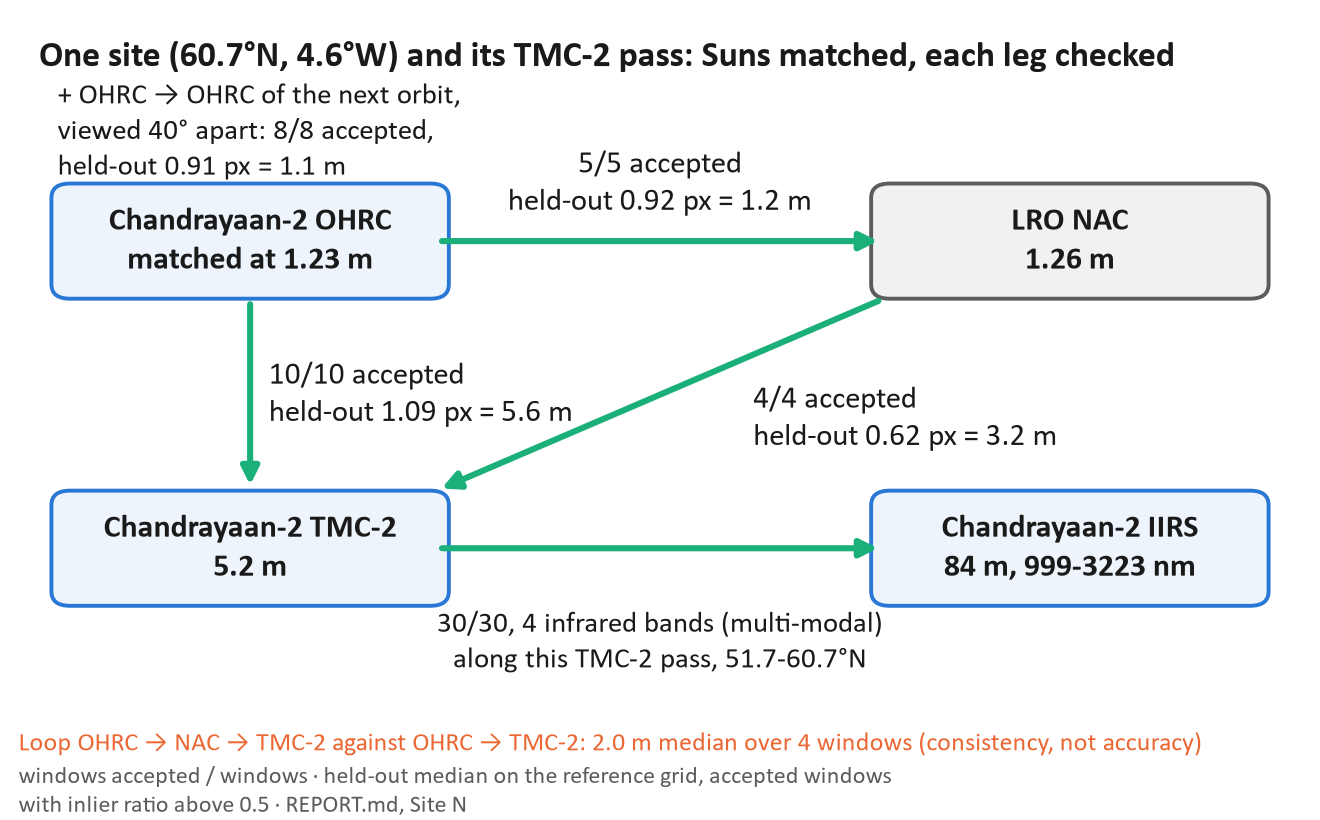
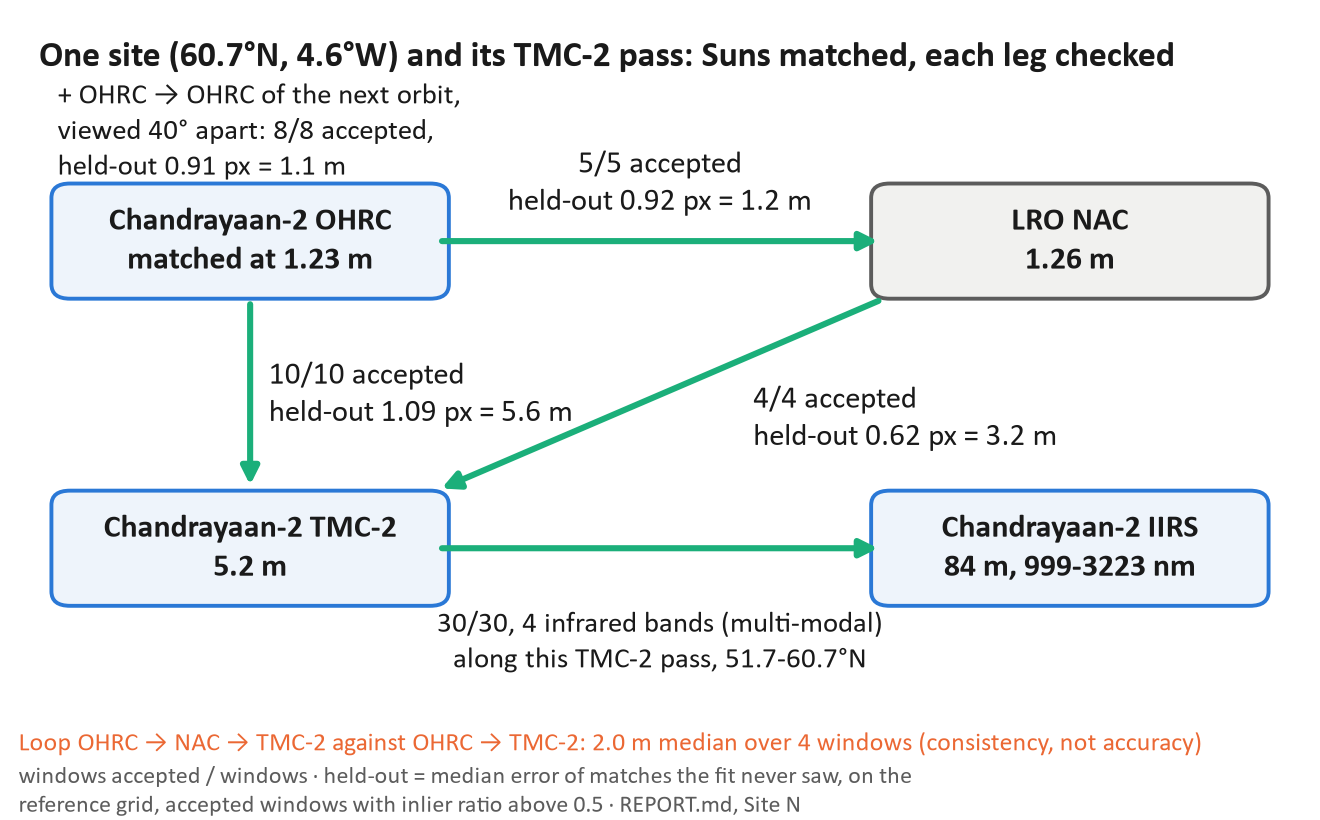
Deck after a fresh-eyes judge read: sub-pixel row amber (holds on some pairings, not OHRC -> TMC-2) and named as held-out on the reference grid; scorecard in the problem statement's order; slide 2 shows the catch rate (100% of planted 5 m shifts, 176 trials) beside the false-alarm rate, azimuth with

Changed region(s): [[0.0, 0.9146, 0.6833, 1.0]]

diff --git a/presentation/build_deck.py b/presentation/build_deck.py
@@ -429,15 +429,15 @@ def slide1(s):
 HOW_ROWS = [
     # REPORT.md "SAC's own benchmark pair (equatorial ...)": `agrees` / rows; Δsun az 173.5-173.7,
     # said as 174°. A did-it-register fact, NOT an accuracy comparison.
-    ("AZIMUTH", GREEN, "6/6 accepted", " on SAC's own pair [1], Sun azimuths 174° apart"),
+    ("AZIMUTH", GREEN, "6/6 accepted", " on SAC's pair [1], Suns 174° apart; 0/12 at 60–120°"),
     # "Sun azimuth and elevation, on SAC's own frame": the near-azimuth table's totals line (agrees /
     # windows) and its highest Sun (+41.7° in elevation).
     ("ELEVATION", GREEN, "61/71 accepted", " Sun raised up to 41.7° on SAC's frame"),
     # "Scale rung: ... TC ortho map": scale column, `agrees` / rows.
-    ("SCALE", GREEN, "3/4 accepted", " across a 29.6× gap, 1 on dense evidence"),
+    ("SCALE", GREEN, "10/10 accepted", " OHRC → TMC-2 across 4.2×; 3/4 across 29.6×"),
     # "TMC-2 -> IIRS, orbit of ..." (both orbits): windows accepted in the bands beyond 850 nm
     # (multi-modal), 8 x 4 on the first orbit + 8 + 8 + 8 + 6 on the second.
-    ("SENSOR", GREEN, "62/62 accepted", " TMC-2 → IIRS infrared, two orbits"),
+    ("MULTI-MODAL", GREEN, "62/62 accepted", " TMC-2 → IIRS infrared, two orbits"),
 ]
 
 
@@ -483,9 +483,9 @@ def slide2(s):
     rows = HOW_ROWS
     for k, (label, colour, bold, rest) in enumerate(rows):
         ry = cy + 0.44 + k * 0.48
-        _box(s, L + 0.10, ry + 0.08, 1.02, 0.30, [P(R(label, 11, True, WHITE), align="c")],
+        _box(s, L + 0.10, ry + 0.08, 1.14, 0.30, [P(R(label, 11, True, WHITE), align="c")],
              fill=colour, radius=0.5, margins=(0.02, 0, 0.02, 0), name="pill")
-        _text(s, L + 1.20, ry, cw1 - 1.26, 0.46,
+        _text(s, L + 1.30, ry, cw1 - 1.36, 0.46,
               [P(R(bold, 12, True, INK), R(rest, 12, False, INK))], anchor="m", name="how-row")
 
     # Innovation and uniqueness: the calibration, both Sun populations, never pooled.
@@ -498,8 +498,8 @@ def slide2(s):
          name="card-innovation")
     _text(s, ix + 0.14, cy + 0.46, RIGHT - ix - 0.28, 0.30,
           [P(R("A failure detector, calibrated on real data.", 13, True, INK))], name="inn-lead")
-    for k, (num, lab) in enumerate((("0/44", "false alarms, Sun azimuths within 10° apart"),
-                                    ("0/16", "false alarms, Sun azimuths 132–174° apart"))):
+    for k, (num, lab) in enumerate((("0/44", "false alarms on correct answers, Suns within 10° apart"),
+                                    ("100%", "of planted 5 m shifts caught (176 trials), same Suns"))):
         ry = cy + 0.80 + k * 0.42
         _text(s, ix + 0.14, ry, 0.86, 0.40, [P(R(num, 24, True, ACCENT))], anchor="m", name="inn-num")
         _text(s, ix + 1.02, ry, RIGHT - ix - 1.16, 0.40, [P(R(lab, 12, False, MUTED))], anchor="m",
@@ -507,8 +507,8 @@ def slide2(s):
     # Shifts only: rotations and scale changes of 5 m at the corners are flagged far less often
     # at frame level (4 and 8 of 44 near-Sun trials) - slide 5 says why (claim-check v10, H1).
     _text(s, ix + 0.14, cy + 1.68, RIGHT - ix - 0.28, 0.62,
-          [P(R("Shifts planted in 30 real windows: every one of 5 m or more caught with the Suns "
-               "within 10°; 2 m or less is the floor we print.", 12, False, INK))],
+          [P(R("30 real windows. Suns 132–174° apart: 0/16 false alarms, every 10 m "
+               "shift caught. At 2 m or less almost nothing is caught: the detection floor.", 12, False, INK))],
           name="inn-body")
 
     # The trust map itself: SAC's OHRC -> NAC w06 (accepted) above Kaguya TC -> MI 1548 nm w01
@@ -552,7 +552,7 @@ def slide3(s):
     _box(s, L, band_y, RIGHT - L, band_h,
          [P(R("INDEPENDENT AREA CHECK — ours", 15, True, WHITE), align="c"),
           P(R("cross-correlates the warped image against the reference in 8×8 cells · never reads "
-              "a match position · the only step allowed to overrule the rest · prior art [6–9]",
+              "a match position · the only step allowed to overrule the rest · builds on [6–9]",
               12, False, WHITE), align="c", sb=1)],
          fill=ACCENT, anchor="m", name="areacheck")
     outs = [("agrees →", " GeoTIFF, uniform control points, trust map", FILL_GREEN, LINE_GREEN, GREEN),
@@ -620,26 +620,27 @@ SCORECARD = [
     ("Sun azimuth", "SAC's own pair [1]: 6/6 accepted, Sun azimuths 174° apart", GREEN),
     # "Sun azimuth and elevation, on SAC's own frame": the near-azimuth table, its totals line.
     ("Sun elevation", "Same frame, azimuth within 20°: Sun up to 41.7° higher, 61/71 accepted", GREEN),
+    # "A real viewpoint test at Site N": agrees / windows, angle apart, held-out median.
+    ("Viewpoint", "OHRC → OHRC, next orbit, views 40° apart: 8/8, held-out 0.91 px = 1.12 m", GREEN),
     # "Scale rung" 3 agrees of 4; "TMC-2 -> IIRS" scale column 16.2x, every window on both orbits.
-    ("Scale", "29.6× OHRC → Kaguya TC: 3 of 4, 1 dense · 16× TMC-2 → IIRS: every window", GREEN),
+    ("Scale", "16× TMC-2 → IIRS: 62/62 · 4.2× OHRC → TMC-2: 10/10 · 29.6× to Kaguya TC: 3/4", GREEN),
     # "TMC-2 -> IIRS", both orbits: bands beyond 850 nm, windows accepted.
     ("Multi-modal", "TMC-2 → IIRS infrared, 999–3223 nm: 62/62, 16 places on two orbits", GREEN),
     # "One site, every camera ... (Site N)": the legs table and the loop paragraph.
-    ("OHRC, TMC, IIRS", "One site, Suns matched: OHRC → TMC-2 10/10, OHRC → LRO NAC 5/5, NAC → TMC-2 4/4; "
-                        "loop consistency 2.0 m", GREEN),
+    ("OHRC, TMC, IIRS", "One site, Suns matched: OHRC → TMC-2 10/10, OHRC → NAC 5/5, NAC → TMC-2 4/4; "
+                        "chain via NAC meets direct within 2.0 m", GREEN),
     # "In the Chandrayaan-2 image's own pixels": NAC <-> TMC-2 and TMC-2 <-> IIRS 1555 nm (held-out medians).
     # ... and the Site N OHRC -> TMC-2 row, which is not sub-pixel in every window (claim-check 2 Oct).
-    ("Sub-pixel", "Own pixels, held out: TMC-2 0.36–0.48 = 1.6–2.2 m; IIRS 0.16–0.32 = 14–27 m; "
-                  "OHRC → TMC-2 0.61–1.57 = 3.2–8.1 m", GREEN),
+    # AMBER (fresh-eyes review, 2 Oct): sub-pixel holds on some pairings, not on OHRC -> TMC-2.
+    ("Sub-pixel", "Held-out, reference grid: OHRC → NAC 0.61 px = 0.57 m; IIRS 1555 nm 0.16–0.32 px = "
+                  "14–27 m; OHRC → TMC-2 0.61–1.57 px = 3.2–8.1 m", AMBER),
     # "Runtime and match distribution": grid coverage, and the delivered uniform set.
-    ("Uniform spread", "Inliers in ≥95% of 8×8 cells on 17 of 20 windows; uniform control-point set ships", GREEN),
-    ("Deliverables", "GeoTIFF, GDAL and QGIS control points, ISIS match list, trust map, report", GREEN),
-    # "A real viewpoint test at Site N": agrees / windows, angle apart, held-out median.
-    ("Viewpoint", "OHRC → OHRC, next orbit, views 40° apart: 8 of 8, held-out 0.91 px = 1.12 m", GREEN),
+    ("Uniform spread", "Inliers in ≥95% of 8×8 cells on 17/20 windows; uniform control points ship", GREEN),
+    ("Deliverables", "GeoTIFF, GDAL/QGIS control points, ISIS match list, trust map, report", GREEN),
 ]
 RISKS = [
     # "Real sun-angle sweep" bins 60-90 and 90-120: 0 accepted of 7 + 5, none wrongly accepted.
-    (("Sun 60–120° away", "74°S sweep: 0 of 12 accepted; 1 failure caught, 2 right ones refused"),
+    (("Sun 60–120° away", "0 of 12 accepted: 1 failure caught, 2 right ones refused"),
      ("Choose the pass by its Sun", "How this slide's site was found")),
     (("Relief parallax", "TMC-2 fore → aft, 50° apart: 1 of 4 accepted"),
      ("Local transforms", "Tile-level transforms after DTM orthorectification")),
@@ -740,8 +741,8 @@ def slide5(s):
     _text(s, L + 1.42, py + 0.10, 5.52, 1.32,
           [P(R("Why region by region", 13, True, ACCENT)),
            P(R("A rotation or scale error moves the corners, not the centre: at 3 m of corner "
-               "movement a whole-frame check refuses 0 of 120 trials. The 8×8 map strips verified "
-               "state from 94% of the cells moved past 2 px, on reference grids of 0.93–1.62 m/px.",
+               "movement a whole-frame check refuses 0 of 120 trials. The 8×8 map stops vouching for "
+               "94% of the cells moved past 2 px, on reference grids of 0.93–1.62 m/px.",
                12, False, INK), sb=2)],
           name="per-region-text")
 
@@ -800,10 +801,8 @@ REFS = [
 # Say "measured at". `_audit_deck` verifies any "REPORT.md ... at commit X" claim it finds.
 # v11: the 2 Oct freeze re-ran every row at 51a9ad0 and its report step wrote REPORT.md with that
 # commit's code, so one commit names both (REPORT.md's own header says so).
-PROVENANCE = ("Every figure here comes from REPORT.md and the evidence logs. Real-pair rows "
-              "measured at the freeze commit 51a9ad0, and REPORT.md generated from them by that "
-              "commit's code; MiLOI rows scored at 51a9ad0 from matches made at earlier commits, "
-              "each named in miloi_log.csv.")
+PROVENANCE = ("Every figure comes from REPORT.md, generated from evidence measured at the freeze "
+              "commit 51a9ad0.")
 
 
 def slide6(s):
@@ -832,6 +831,9 @@ def slide6(s):
            P(R("Try it: ", 12, True, NAVY),
              R("python -m web.server opens a workbench that registers your own images.", 12, False, INK),
              sa=5),
+           P(R("Next: ", 12, True, NAVY),
+             R("time a whole OHRC strip; Suns 60–120° apart by choosing the pass; relief by DTM "
+               "orthorectification; more matched-Sun sites.", 12, False, INK), sa=5),
            P(R(PROVENANCE, 11, False, MUTED), sa=5),
            P(R("Every chart and screenshot is made by our own code; methods and data are credited "
                "on the left.", 11, True, NAVY))],

diff --git a/presentation/make_figures.py b/presentation/make_figures.py
@@ -1073,8 +1073,8 @@ def fig_site_n():
     lon = float(np.median([float(r["window_lon"]) for r in every]))
     ax.set_title(f"One site ({lat:.1f}°N, {abs(lon if lon < 180 else lon - 360):.1f}°W) and its TMC-2 pass: "
                  "Suns matched, each leg checked", loc="left", fontweight="bold", fontsize=13, pad=6)
-    fig.text(0.014, 0.01, "windows accepted / windows · held-out median on the reference grid, accepted windows\n"
-             "with inlier ratio above 0.5 · REPORT.md, Site N", fontsize=8.5, color=MUTED)
+    fig.text(0.014, 0.01, "windows accepted / windows · held-out = median error of matches the fit never saw, on the\n"
+             "reference grid, accepted windows with inlier ratio above 0.5 · REPORT.md, Site N", fontsize=8.5, color=MUTED)
     fig.tight_layout(rect=(0, 0.12, 1, 1))
     out = OUT / "fig10_site_n.png"
     _audit(fig, out.name)
